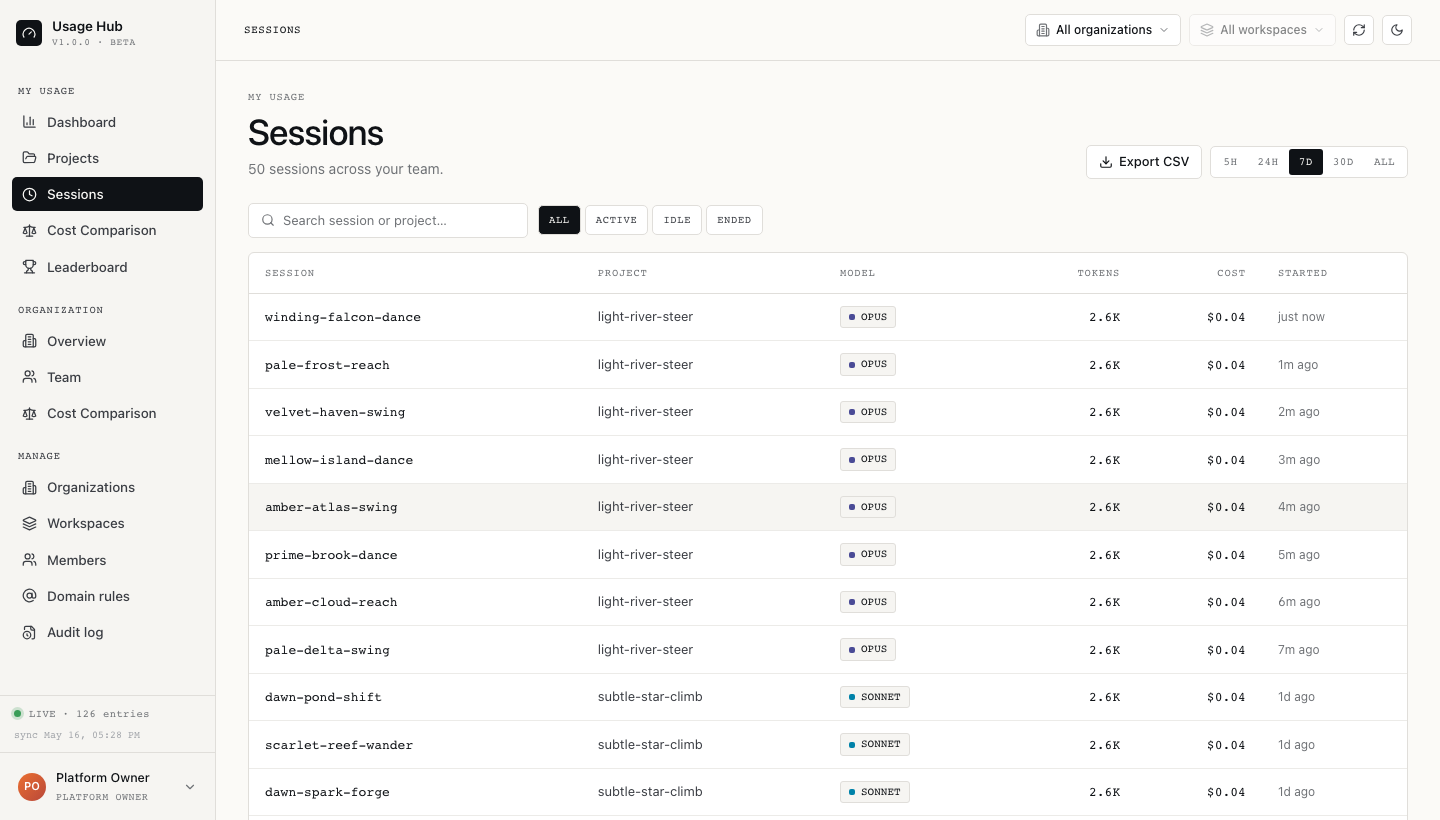
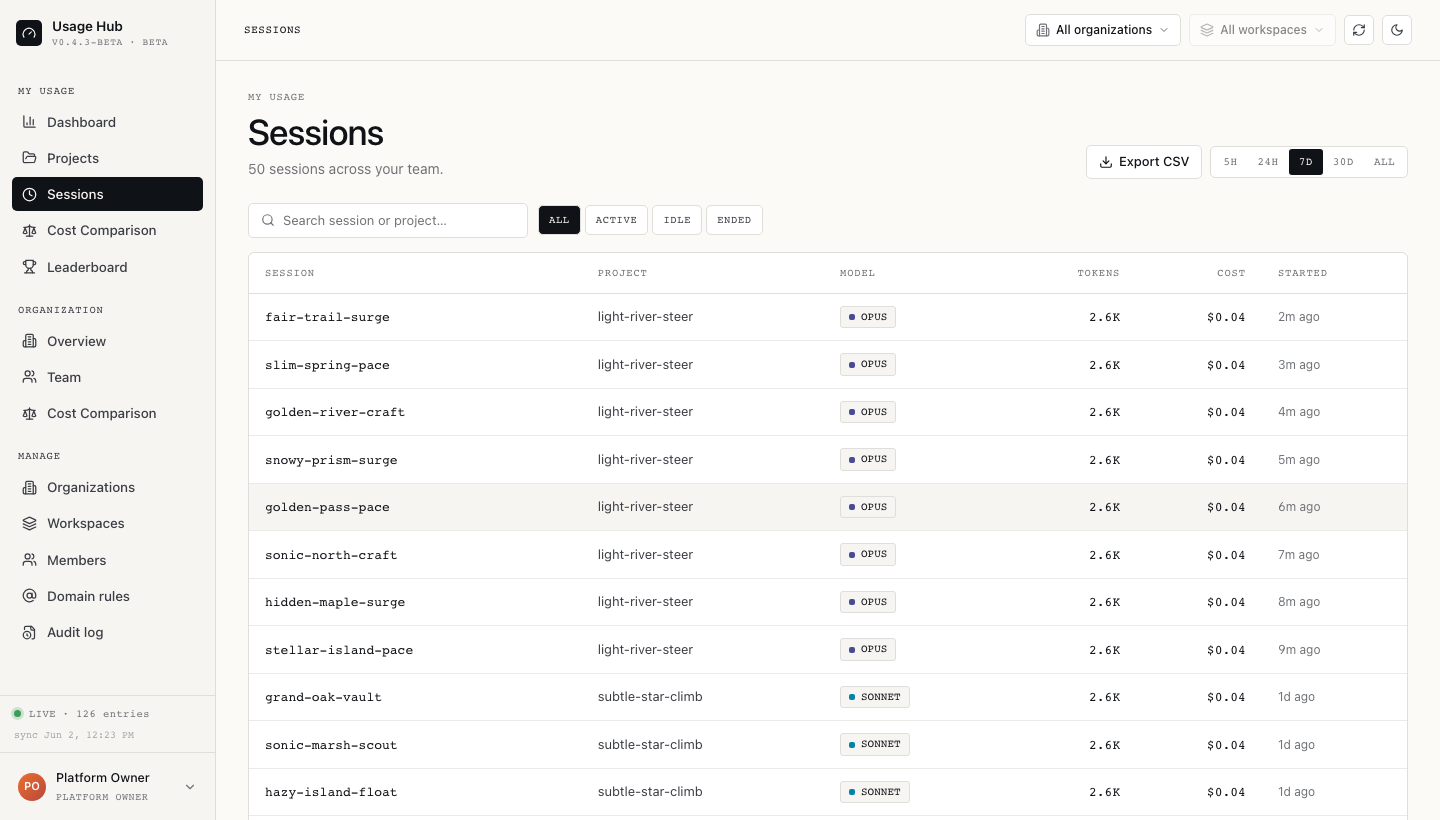
docs: refresh screenshots + README for v0.4.3-beta
Regenerated all 13 existing screenshots against a fresh dummy-data
instance (admin@test.local + Alice Chen + Bob Smith, 7 days of usage
across opus/sonnet/haiku) so they reflect the v0.4.3-beta UI: new
brand badge, 5-tier role labels, top-bar org/workspace switcher,
restructured sidebar (My Usage / Organization / Manage).

Added 5 new Manage UI screenshots that didn't exist before:
- Organizations (CRUD)
- Workspaces (per-org list)
- Members (search, grants modal, Transfer ownership button)
- Domain rules (auto-assign new sign-ups by email domain)
- Audit log (resolved actor/target/scope names)

Workflow:
  pnpm --filter shared build && pnpm --filter dashboard build
  DB_PATH=/tmp/cuh-dummy.db MODE=team JWT_SECRET=... ADMIN_EMAIL=... \
    PORT=8081 pnpm --filter server dev &
  pnpm --filter @claude-usage-hub/e2e exec playwright test --project=setup
  npx tsx packages/e2e/take-screenshots.ts
  kill <server>

take-screenshots.ts grew 5 new pages; everything else is image churn.

README: v1.0.0 → v0.4.3-beta in the headline (we backed out the
premature 1.0.0 bump in commit e88a0e3), added the Manage section
with the 5 new screenshots and a one-liner explaining who sees it.

diff --git a/packages/e2e/take-screenshots.ts b/packages/e2e/take-screenshots.ts
@@ -81,6 +81,22 @@ async function setTheme(page: import('@playwright/test').Page, dark: boolean) {
   await page.goto(`${BASE}/help`);
   await shot(page, 'help-light');
 
+  // ── Manage UI (Platform Owner sees all sections) ─────────────────────────
+  await page.goto(`${BASE}/manage/organizations`);
+  await shot(page, 'manage-organizations-light');
+
+  await page.goto(`${BASE}/manage/workspaces`);
+  await shot(page, 'manage-workspaces-light');
+
+  await page.goto(`${BASE}/manage/members`);
+  await shot(page, 'manage-members-light');
+
+  await page.goto(`${BASE}/manage/domain-rules`);
+  await shot(page, 'manage-domain-rules-light');
+
+  await page.goto(`${BASE}/manage/audit`);
+  await shot(page, 'manage-audit-light');
+
   // ── Dark mode screenshots ──────────────────────────────────────────────────
   await setTheme(page, true);
 

diff --git a/README.md b/README.md
@@ -2,7 +2,7 @@
 
 A self-hosted, open-source tool for monitoring Claude Code token usage across your entire team. Track token consumption, cost breakdowns, and per-developer visibility — all from a central web dashboard.
 
-> **v1.0.0** — Multi-org support, workspaces, role hierarchy, team leaderboard, cost comparison, and the Signal UI redesign.
+> **v0.4.3-beta** — Multi-org, workspaces, 5-tier role hierarchy, smart Windows installer (no admin / Node.js required), team leaderboard, cost comparison, audit log, and the Signal UI redesign.
 
 ## Screenshots
 
@@ -32,6 +32,16 @@ A self-hosted, open-source tool for monitoring Claude Code token usage across yo
 
 ### Help & Docs
 ![Help](docs/screenshots/help-light.png)
+
+### Manage — Organizations, Workspaces, Members, Domain rules, Audit log
+
+Platform Admins and Org Owners get a `Manage` section for day-to-day administration of the org/workspace structure.
+
+![Manage › Organizations](docs/screenshots/manage-organizations-light.png)
+![Manage › Workspaces](docs/screenshots/manage-workspaces-light.png)
+![Manage › Members](docs/screenshots/manage-members-light.png)
+![Manage › Domain rules](docs/screenshots/manage-domain-rules-light.png)
+![Manage › Audit log](docs/screenshots/manage-audit-light.png)
 
 ## Features
 
